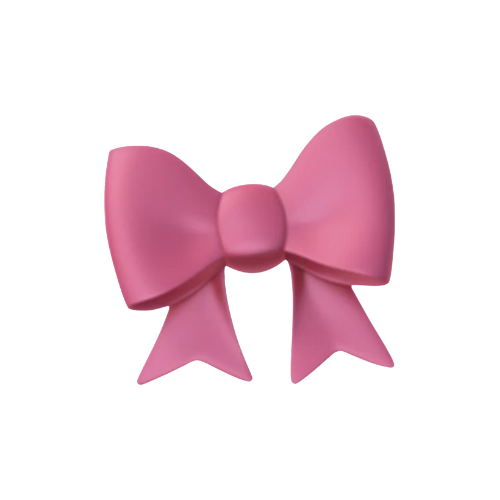
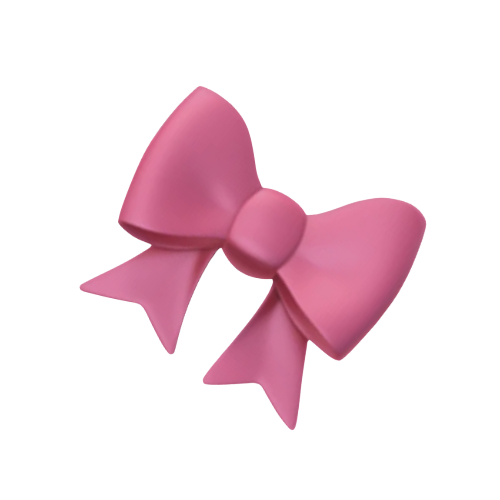
fixed bow image

Changed region(s): [[0.15, 0.15, 0.87, 0.87]]

diff --git a/embedcontent.html b/embedcontent.html
@@ -57,7 +57,7 @@
         </label>
         <div class="control-item">
             <span>ZOOM</span>
-            <input type="range" id="zoom" min="0.025" max="1.5" step="0.01" value="0.05">
+            <input type="range" id="zoom" min="0.1" max="1.5" step="0.01" value="0.5">
         </div>
         <div class="control-item">
             <span>ROTATE</span>
@@ -86,8 +86,8 @@
     const hatOverlay = new Image();
     // Required to allow the canvas to download an image from a different domain (GitHub)
     hatOverlay.crossOrigin = "anonymous"; 
-    // Direct raw link to your hat
-    hatOverlay.src = "https://raw.githubusercontent.com/KimmiJimmi/justagirl/main/bow.png"; 
+    // Direct raw link to your bow
+    hatOverlay.src = "https://raw.githubusercontent.com/KimmiJimmi/justagirl/main/bow.PNG"; 
 
     let userImage = null;
     let hatScale = 0.2, hatRotation = 0, hatX = 256, hatY = 200;
